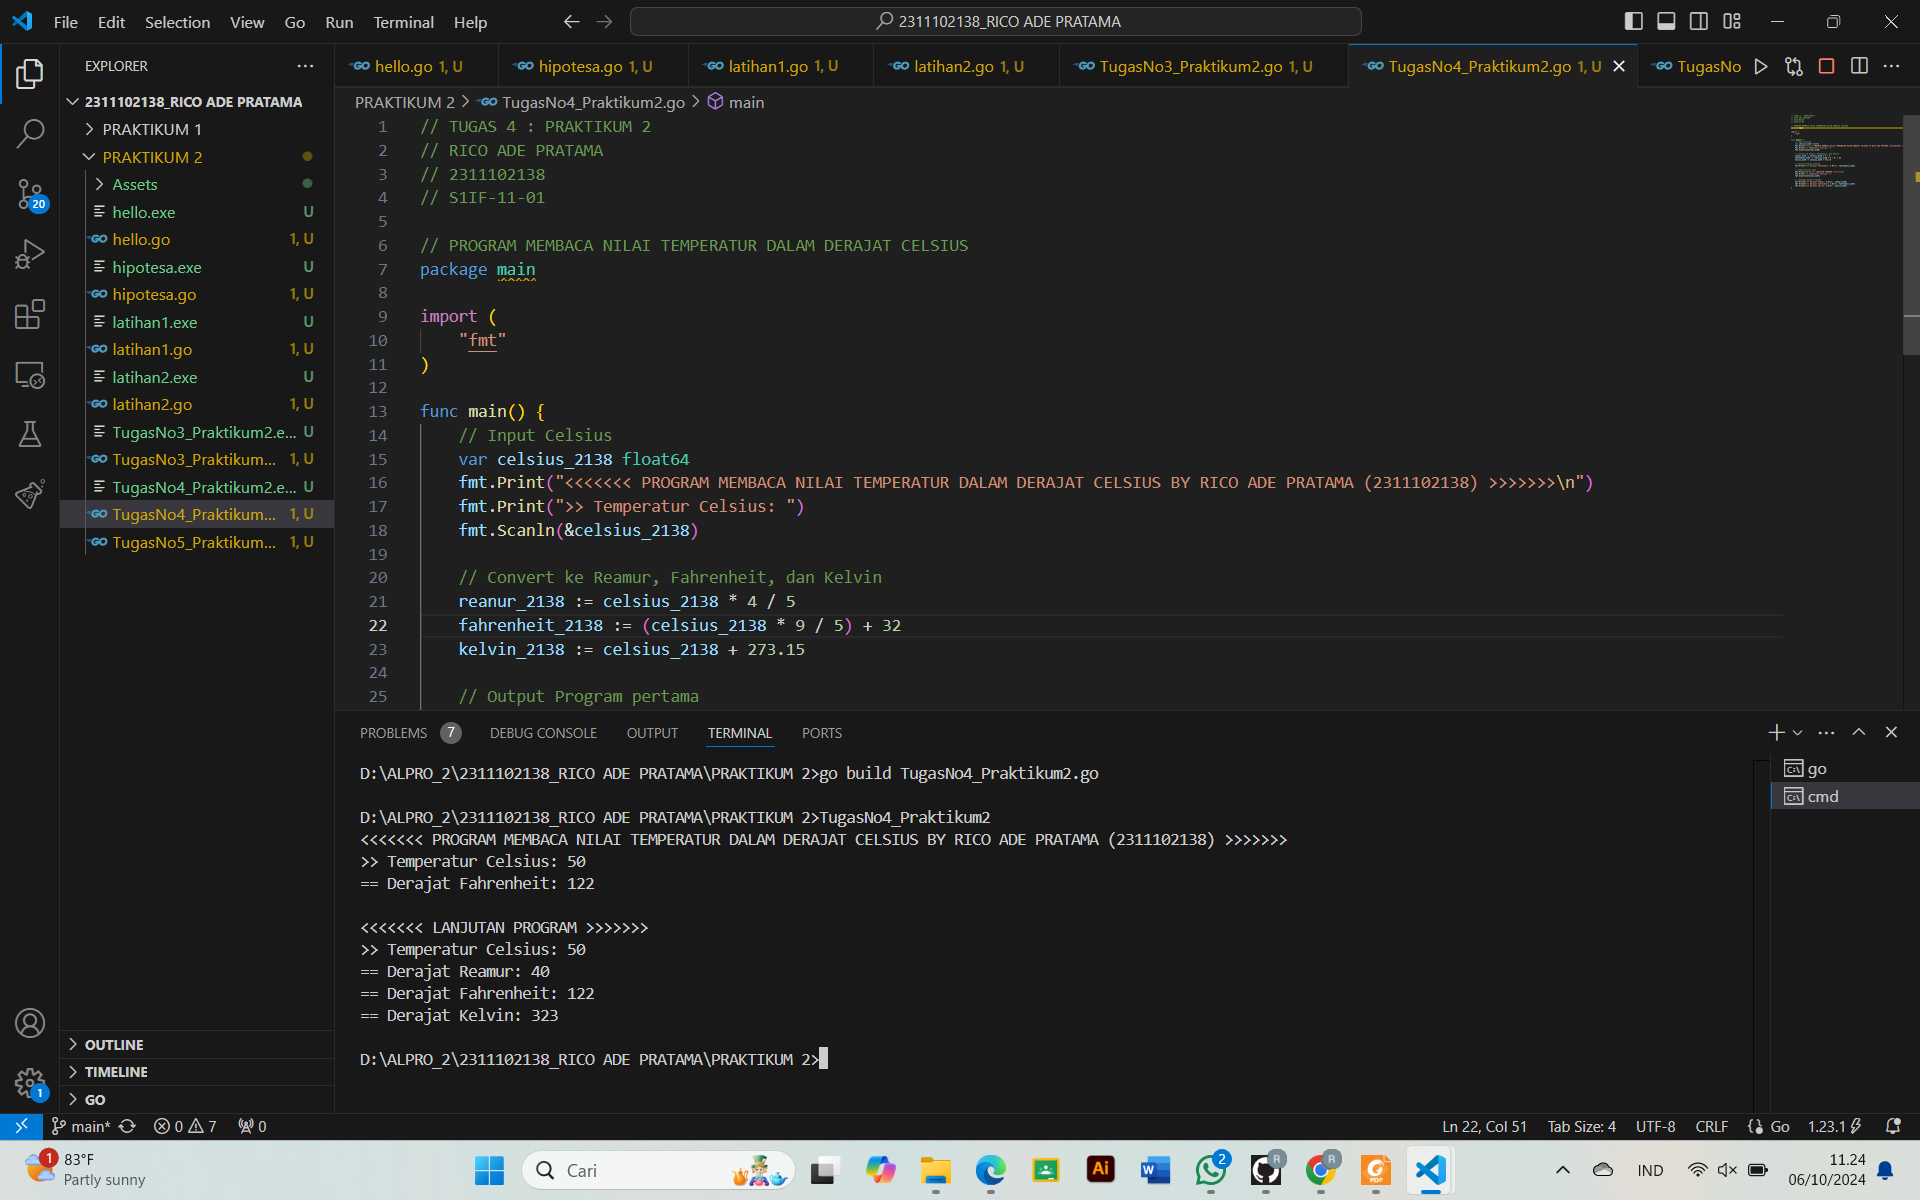
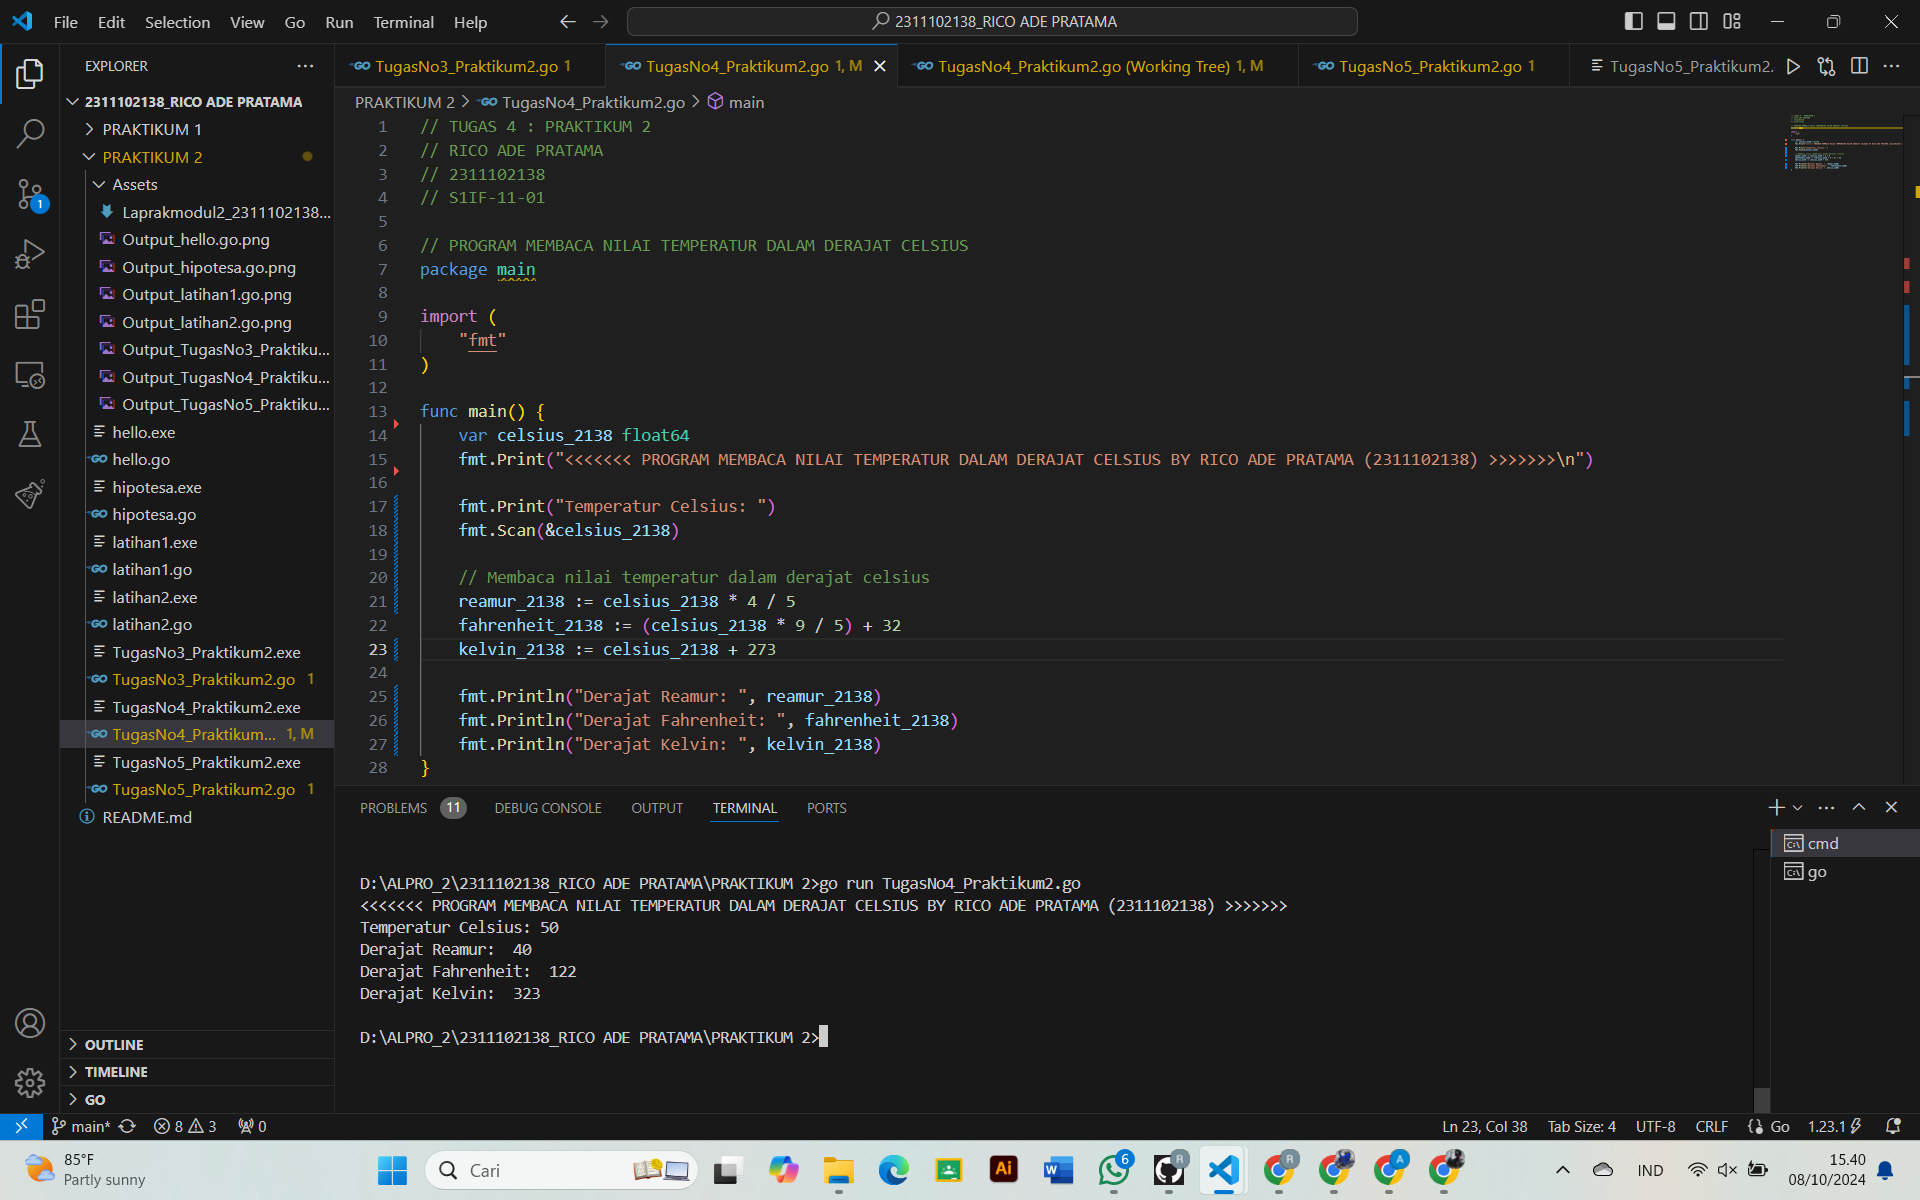
Done

diff --git a/PRAKTIKUM 2/TugasNo4_Praktikum2.go b/PRAKTIKUM 2/TugasNo4_Praktikum2.go
@@ -11,27 +11,18 @@ import (
 )
 
 func main() {
-	// Input Celsius
 	var celsius_2138 float64
 	fmt.Print("<<<<<<< PROGRAM MEMBACA NILAI TEMPERATUR DALAM DERAJAT CELSIUS BY RICO ADE PRATAMA (2311102138) >>>>>>>\n")
-	fmt.Print(">> Temperatur Celsius: ")
-	fmt.Scanln(&celsius_2138)
 
-	// Convert ke Reamur, Fahrenheit, dan Kelvin
-	reanur_2138 := celsius_2138 * 4 / 5
+	fmt.Print("Temperatur Celsius: ")
+	fmt.Scan(&celsius_2138)
+
+	// Membaca nilai temperatur dalam derajat celsius
+	reamur_2138 := celsius_2138 * 4 / 5
 	fahrenheit_2138 := (celsius_2138 * 9 / 5) + 32
-	kelvin_2138 := celsius_2138 + 273.15
+	kelvin_2138 := celsius_2138 + 273
 
-	// Output Program pertama
-	fmt.Printf("== Derajat Fahrenheit: %.0f\n", fahrenheit_2138)
-
-	// Input Celsius Lagi
-	fmt.Print("\n<<<<<<< LANJUTAN PROGRAM >>>>>>>\n")
-	fmt.Print(">> Temperatur Celsius: ")
-	fmt.Scanln(&celsius_2138)
-
-	// Lanjutan Output Program
-	fmt.Printf("== Derajat Reamur: %.0f\n", reanur_2138)
-	fmt.Printf("== Derajat Fahrenheit: %.0f\n", fahrenheit_2138)
-	fmt.Printf("== Derajat Kelvin: %.0f\n", kelvin_2138)
+	fmt.Println("Derajat Reamur: ", reamur_2138)
+	fmt.Println("Derajat Fahrenheit: ", fahrenheit_2138)
+	fmt.Println("Derajat Kelvin: ", kelvin_2138)
 }

diff --git a/PRAKTIKUM 2/Assets/Laprakmodul2_2311102138_RICO ADE PRATAMA.md b/PRAKTIKUM 2/Assets/Laprakmodul2_2311102138_RICO ADE PRATAMA.md
@@ -153,30 +153,22 @@ import (
 )
 
 func main() {
-	// Input Celsius
 	var celsius_2138 float64
 	fmt.Print("<<<<<<< PROGRAM MEMBACA NILAI TEMPERATUR DALAM DERAJAT CELSIUS BY RICO ADE PRATAMA (2311102138) >>>>>>>\n")
-	fmt.Print(">> Temperatur Celsius: ")
-	fmt.Scanln(&celsius_2138)
 
-	// Convert ke Reamur, Fahrenheit, dan Kelvin
-	reanur_2138 := celsius_2138 * 4 / 5
+	fmt.Print("Temperatur Celsius: ")
+	fmt.Scan(&celsius_2138)
+
+	// Membaca nilai temperatur dalam derajat celsius
+	reamur_2138 := celsius_2138 * 4 / 5
 	fahrenheit_2138 := (celsius_2138 * 9 / 5) + 32
-	kelvin_2138 := celsius_2138 + 273.15
+	kelvin_2138 := celsius_2138 + 273
 
-	// Output Program pertama
-	fmt.Printf("== Derajat Fahrenheit: %.0f\n", fahrenheit_2138)
-
-	// Input Celsius Lagi
-	fmt.Print("\n<<<<<<< LANJUTAN PROGRAM >>>>>>>\n")
-	fmt.Print(">> Temperatur Celsius: ")
-	fmt.Scanln(&celsius_2138)
-
-	// Lanjutan Output Program
-	fmt.Printf("== Derajat Reamur: %.0f\n", reanur_2138)
-	fmt.Printf("== Derajat Fahrenheit: %.0f\n", fahrenheit_2138)
-	fmt.Printf("== Derajat Kelvin: %.0f\n", kelvin_2138)
+	fmt.Println("Derajat Reamur: ", reamur_2138)
+	fmt.Println("Derajat Fahrenheit: ", fahrenheit_2138)
+	fmt.Println("Derajat Kelvin: ", kelvin_2138)
 }
+
 
 ```
 ## OUTPUT SCREENSHOT
